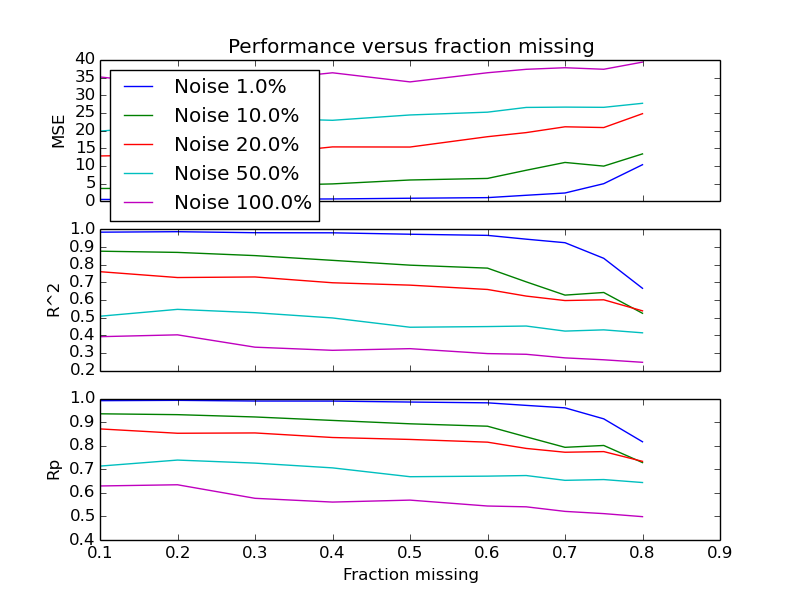
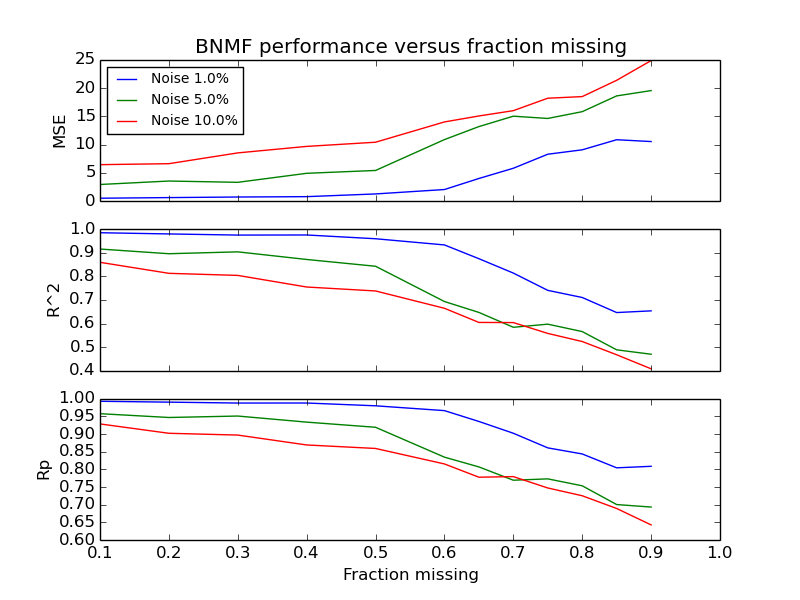
Also ran BNMF Gibbs for graphs.

diff --git a/example/test_varying_noise/bnmf/recover_gibbs_varying_noise.py b/example/test_varying_noise/bnmf/recover_gibbs_varying_noise.py
@@ -43,6 +43,7 @@ lambdaU = numpy.ones((I,K))
 lambdaV = numpy.ones((J,K))  
 priors = { 'alpha':alpha, 'beta':beta, 'lambdaU':lambdaU, 'lambdaV':lambdaV }
 
+'''
 # For each tau, generate a dataset, and mask matrices
 all_R = []
 all_Ms = []
@@ -116,68 +117,57 @@ print "All performances versus noise level and fraction of entries missing: %s."
 
 
 '''
-All performances versus noise level and fraction of entries missing: 
-    [(0.01, 
-          [(0.1, {'R^2': 0.984327379615597, 'MSE': 0.49291516806919577, 'Rp': 0.9921579363835803}), 
-           (0.2, {'R^2': 0.9870850309180961, 'MSE': 0.44439556610330549, 'Rp': 0.99354340355412685}), 
-           (0.3, {'R^2': 0.9812581072453863, 'MSE': 0.53557885768291214, 'Rp': 0.99063272657163615}), 
-           (0.4, {'R^2': 0.9807507902828302, 'MSE': 0.63251815764731167, 'Rp': 0.99039451606225415}), 
-           (0.5, {'R^2': 0.9726986338367348, 'MSE': 0.83166753021130424, 'Rp': 0.98630606561533318}), 
-           (0.6, {'R^2': 0.96622277767559, 'MSE': 1.0057840933812459, 'Rp': 0.98298875849883849}), 
-           (0.65, {'R^2': 0.9447030408369691, 'MSE': 1.6714684032666085, 'Rp': 0.97212124673649503}), 
-           (0.7, {'R^2': 0.9246556824505652, 'MSE': 2.3178317466888712, 'Rp': 0.96168095823041777}), 
-           (0.75, {'R^2': 0.8362217267048724, 'MSE': 4.956909843140286, 'Rp': 0.91487143753244848}), 
-           (0.8, {'R^2': 0.6663077678209981, 'MSE': 10.333983877157896, 'Rp': 0.81745804540144329})]), 
-     (0.1, 
-          [(0.1, {'R^2': 0.8765521195731734, 'MSE': 3.5957109788382615, 'Rp': 0.93636719291577586}), 
-           (0.2, {'R^2': 0.8697672003885271, 'MSE': 3.6912873902093546, 'Rp': 0.93271016667534179}), 
-           (0.3, {'R^2': 0.8515818088520015, 'MSE': 4.3739725603661075, 'Rp': 0.92289109899948152}), 
-           (0.4, {'R^2': 0.8247299627282597, 'MSE': 4.8949585759665526, 'Rp': 0.90820309812197098}), 
-           (0.5, {'R^2': 0.7974135479757228, 'MSE': 6.002248588016287, 'Rp': 0.89383901831327184}), 
-           (0.6, {'R^2': 0.7806310192568402, 'MSE': 6.4464144487347559, 'Rp': 0.88360865011569378}), 
-           (0.65, {'R^2': 0.7027422121417745, 'MSE': 8.7631433474405398, 'Rp': 0.83837203619588718}), 
-           (0.7, {'R^2': 0.6277023690115331, 'MSE': 10.973282498922208, 'Rp': 0.79388502385910298}), 
-           (0.75, {'R^2': 0.6425477034062872, 'MSE': 9.9348965439281702, 'Rp': 0.80177186125298849}), 
-           (0.8, {'R^2': 0.5246944505846692, 'MSE': 13.395646663661475, 'Rp': 0.72901884806959749})]), 
-     (0.2, 
-          [(0.1, {'R^2': 0.7604951052932718, 'MSE': 12.814810990950185, 'Rp': 0.87213662586593366}), 
-           (0.2, {'R^2': 0.7272932989242422, 'MSE': 13.164973582134422, 'Rp': 0.85366128733097424}), 
-           (0.3, {'R^2': 0.7305258924818199, 'MSE': 13.117962552712095, 'Rp': 0.85498679824798907}), 
-           (0.4, {'R^2': 0.6976874780589213, 'MSE': 15.37729133197117, 'Rp': 0.83561833955740383}), 
-           (0.5, {'R^2': 0.6842164205122525, 'MSE': 15.339726410904008, 'Rp': 0.82738404741704019}), 
-           (0.6, {'R^2': 0.6596859460330464, 'MSE': 18.269520469358255, 'Rp': 0.81583059580429829}), 
-           (0.65, {'R^2': 0.6221483565869295, 'MSE': 19.432421157870998, 'Rp': 0.78917034173874612}), 
-           (0.7, {'R^2': 0.5968885961352156, 'MSE': 21.075612977663429, 'Rp': 0.77298223629623974}), 
-           (0.75, {'R^2': 0.6011369706614151, 'MSE': 20.860140256315873, 'Rp': 0.77570369421660146}), 
-           (0.8, {'R^2': 0.5384760323596918, 'MSE': 24.792870144462448, 'Rp': 0.73422423345262522})]), 
-     (0.5, 
-          [(0.1, {'R^2': 0.5080866452807974, 'MSE': 19.854864835355144, 'Rp': 0.71408421636320296}), 
-           (0.2, {'R^2': 0.5469940113575574, 'MSE': 21.570416897359063, 'Rp': 0.73970783440789267}), 
-           (0.3, {'R^2': 0.5280346547679874, 'MSE': 23.508103570280092, 'Rp': 0.72675835551051116}), 
-           (0.4, {'R^2': 0.4982668489455703, 'MSE': 22.915359484489098, 'Rp': 0.70653872312705579}), 
-           (0.5, {'R^2': 0.4456510022242025, 'MSE': 24.426559048006446, 'Rp': 0.66899260762554791}), 
-           (0.6, {'R^2': 0.4494714649967708, 'MSE': 25.21973716162924, 'Rp': 0.67138894486907608}), 
-           (0.65, {'R^2': 0.45243904882791297, 'MSE': 26.56083812327492, 'Rp': 0.67395658733263597}), 
-           (0.7, {'R^2': 0.423811224513171, 'MSE': 26.651836173601627, 'Rp': 0.65356769986976948}), 
-           (0.75, {'R^2': 0.4308135511516591, 'MSE': 26.590121792683547, 'Rp': 0.65687793323933164}), 
-           (0.8, {'R^2': 0.41405488636188603, 'MSE': 27.730466368455247, 'Rp': 0.64424334486074208})]), 
-     (1.0, 
-          [(0.1, {'R^2': 0.39213998134514516, 'MSE': 35.189904426450717, 'Rp': 0.62965470060440776}), 
-           (0.2, {'R^2': 0.40255383127054656, 'MSE': 32.856073599394321, 'Rp': 0.63475216257445477}), 
-           (0.3, {'R^2': 0.3326498487652867, 'MSE': 34.097063788125361, 'Rp': 0.57717080093849571}), 
-           (0.4, {'R^2': 0.3148844307551283, 'MSE': 36.377367119950065, 'Rp': 0.56116503537502838}), 
-           (0.5, {'R^2': 0.32426420141027057, 'MSE': 33.796819097670074, 'Rp': 0.56952099680697854}), 
-           (0.6, {'R^2': 0.29632056298946297, 'MSE': 36.388812071192959, 'Rp': 0.54442281767556966}), 
-           (0.65, {'R^2': 0.2923214991044293, 'MSE': 37.363776253296038, 'Rp': 0.54100644901875194}), 
-           (0.7, {'R^2': 0.27204738354340796, 'MSE': 37.810432045864637, 'Rp': 0.52160548989200872}), 
-           (0.75, {'R^2': 0.26117287440602965, 'MSE': 37.375712885151991, 'Rp': 0.51210475445738457}), 
-           (0.8, {'R^2': 0.24695090768722028, 'MSE': 39.401986915829767, 'Rp': 0.49919191756447562})])]
-'''
+# All performances versus noise level and fraction of entries missing: 
+# (Noise -> Fraction -> Performances)
+stored_all_performances = [
+ (0.01, 
+      [(0.1, {'R^2': 0.985903298266529, 'MSE': 0.52335367774259334, 'Rp': 0.99304725608282396}), 
+       (0.2, {'R^2': 0.980763727512887, 'MSE': 0.63445170601562029, 'Rp': 0.99056887342912914}), 
+       (0.3, {'R^2': 0.9759260743403043, 'MSE': 0.73671405908868126, 'Rp': 0.98805429862029526}), 
+       (0.4, {'R^2': 0.9763462565212224, 'MSE': 0.80088628773256965, 'Rp': 0.98812060920882061}), 
+       (0.5, {'R^2': 0.9603099919325674, 'MSE': 1.2819942329124554, 'Rp': 0.98022237320919381}), 
+       (0.6, {'R^2': 0.9340554816558071, 'MSE': 2.0620582918129817, 'Rp': 0.96656625508931204}), 
+       (0.65, {'R^2': 0.8755523825326187, 'MSE': 4.0171576509734921, 'Rp': 0.93586467689519626}), 
+       (0.7, {'R^2': 0.8144001289912502, 'MSE': 5.828664073581824, 'Rp': 0.9024481465715557}), 
+       (0.75, {'R^2': 0.7409626017625912, 'MSE': 8.3144960084449799, 'Rp': 0.86103399330218722}), 
+       (0.8, {'R^2': 0.7106426687917611, 'MSE': 9.0946188859656658, 'Rp': 0.84380445214454181}), 
+       (0.85, {'R^2': 0.6466346415062064, 'MSE': 10.881648565859551, 'Rp': 0.80448092691982864}), 
+       (0.9, {'R^2': 0.6538566363240571, 'MSE': 10.557955551929794, 'Rp': 0.80880196390796799})]), 
+ (0.05, 
+      [(0.1, {'R^2': 0.916621165871173, 'MSE': 2.9550337817316796, 'Rp': 0.95789589311072909}), 
+       (0.2, {'R^2': 0.8966527629847163, 'MSE': 3.5664041832415112, 'Rp': 0.94712047238042429}), 
+       (0.3, {'R^2': 0.9046154167407594, 'MSE': 3.3387439785567383, 'Rp': 0.95119861599753308}), 
+       (0.4, {'R^2': 0.8722524697611271, 'MSE': 4.9357471890632221, 'Rp': 0.9339859512310078}), 
+       (0.5, {'R^2': 0.8433948514954184, 'MSE': 5.4400497149760749, 'Rp': 0.91936099053545095}), 
+       (0.6, {'R^2': 0.6934919870386858, 'MSE': 10.905196718381163, 'Rp': 0.83472342796108512}), 
+       (0.65, {'R^2': 0.6472297245950314, 'MSE': 13.207421358934283, 'Rp': 0.80708054423391007}), 
+       (0.7, {'R^2': 0.584048422669815, 'MSE': 15.049169083930016, 'Rp': 0.76938127594166439}), 
+       (0.75, {'R^2': 0.5972948290020943, 'MSE': 14.648764894400312, 'Rp': 0.77322587194743153}), 
+       (0.8, {'R^2': 0.5658318897502532, 'MSE': 15.850466728842202, 'Rp': 0.75356678912700337}), 
+       (0.85, {'R^2': 0.4882068126257707, 'MSE': 18.642508641349227, 'Rp': 0.70042192519595747}), 
+       (0.9, {'R^2': 0.46949507520735523, 'MSE': 19.583131668592856, 'Rp': 0.69333647403101362})]), 
+ (0.1, 
+      [(0.1, {'R^2': 0.8601242332662667, 'MSE': 6.4658145640451128, 'Rp': 0.9288604272037766}), 
+       (0.2, {'R^2': 0.8133538845149939, 'MSE': 6.6391681783379797, 'Rp': 0.90236574853170115}), 
+       (0.3, {'R^2': 0.8045190035698141, 'MSE': 8.5494206671367579, 'Rp': 0.89728999333357429}), 
+       (0.4, {'R^2': 0.7551859408255522, 'MSE': 9.7007259688849388, 'Rp': 0.86926570450091789}), 
+       (0.5, {'R^2': 0.7384113732970214, 'MSE': 10.439380448627963, 'Rp': 0.85936607601644666}), 
+       (0.6, {'R^2': 0.6648032963440703, 'MSE': 14.032485943920898, 'Rp': 0.81548086857225754}), 
+       (0.65, {'R^2': 0.6046844363759465, 'MSE': 15.087888841322266, 'Rp': 0.77790035011493841}), 
+       (0.7, {'R^2': 0.6040490901396769, 'MSE': 16.029471854061896, 'Rp': 0.77963590248705217}), 
+       (0.75, {'R^2': 0.5579885175970947, 'MSE': 18.232462137632488, 'Rp': 0.74739054756936685}), 
+       (0.8, {'R^2': 0.5234983900741956, 'MSE': 18.520051005615986, 'Rp': 0.72536539246863374}), 
+       (0.85, {'R^2': 0.4672555363111337, 'MSE': 21.404126437164386, 'Rp': 0.68926418420747826}), 
+       (0.9, {'R^2': 0.4075669800307794, 'MSE': 24.896757849814581, 'Rp': 0.64275033317289132})])
+]
+all_performances_per_noise = [[performance for fraction,performance in all_performances] for noise,all_performances in stored_all_performances]
+''''''
 
 
 # Plot the MSE and R^2 for each noise level, as the fraction of missing values varies.
 # So we get n lines in each plot for n noise levels.
-f, axarr = plt.subplots(3, sharex=True)
+#f, axarr = plt.subplots(3, sharex=True)
+f, axarr = plt.subplots(2, sharex=True, figsize=(7.5,5))
 x = fractions_unknown
 
 # Set axis font to small
@@ -187,12 +177,18 @@ fontP.set_size('small')
 axarr[0].set_title('BNMF performance versus fraction missing')
 for noise,all_performances in zip(noise_ratios,all_performances_per_noise):
     axarr[0].plot(x, [perf['MSE'] for perf in all_performances],label="Noise %s%%" % (100.*noise))
-    axarr[0].legend(loc="upper left", prop = fontP)
+axarr[0].legend(loc="upper left", prop = fontP)
 axarr[0].set_ylabel("MSE")
+
 for noise,all_performances in zip(noise_ratios,all_performances_per_noise):
     axarr[1].plot(x, [perf['R^2'] for perf in all_performances],label="Noise %s%%" % (100.*noise))   
 axarr[1].set_ylabel("R^2")
-for noise,all_performances in zip(noise_ratios,all_performances_per_noise):
-    axarr[2].plot(x, [perf['Rp'] for perf in all_performances],label="Noise %s%%" % (100.*noise)) 
-axarr[2].set_ylabel("Rp")
-axarr[2].set_xlabel("Fraction missing")
+axarr[1].set_ylim(0.4,1)
+
+#for noise,all_performances in zip(noise_ratios,all_performances_per_noise):
+#    axarr[2].plot(x, [perf['Rp'] for perf in all_performances],label="Noise %s%%" % (100.*noise)) 
+#axarr[2].set_ylabel("Rp")
+
+#axarr[2].set_xlabel("Fraction missing")
+axarr[1].set_xlabel("Fraction missing")
+plt.xlim(x[0],x[-1])

diff --git a/example/test_varying_noise/bnmtf/recover_gibbs_varying_noise.py b/example/test_varying_noise/bnmtf/recover_gibbs_varying_noise.py
@@ -43,7 +43,8 @@ lambdaF = numpy.ones((I,K))
 lambdaS = numpy.ones((K,L))  
 lambdaG = numpy.ones((J,L))  
 priors = { 'alpha':alpha, 'beta':beta, 'lambdaF':lambdaF, 'lambdaS':lambdaS, 'lambdaG':lambdaG }
-
+  
+'''
 # For each tau, generate a dataset, and mask matrices
 all_R = []
 all_Ms = []
@@ -77,8 +78,7 @@ for noise in noise_ratios:
         check_empty_rows_columns(M,fraction)
         
 print "Generated datasets and mask matrices."
-       
-       
+     
 # For each level of noise, and for each fraction of missing data, run the VB algorithm.
 # Then plot this, and convergence of tau as well.
 all_performances_per_noise = []
@@ -117,9 +117,10 @@ print "All performances versus noise level and fraction of entries missing: %s."
 
 
 '''
-All performances versus noise level and fraction of entries missing: 
-(Noise -> Fraction -> Performances)
-[(0.01, 
+# All performances versus noise level and fraction of entries missing: 
+# (Noise -> Fraction -> Performances)
+stored_all_performances = [
+ (0.01, 
       [(0.1, {'R^2': 0.9827806402055835, 'MSE': 19.000913967003534, 'Rp': 0.99135308174986569}), 
        (0.2, {'R^2': 0.9865015312881293, 'MSE': 20.788764048766264, 'Rp': 0.99336726740295134}), 
        (0.3, {'R^2': 0.9863355718902775, 'MSE': 21.898187013256795, 'Rp': 0.99322770486605105}), 
@@ -157,13 +158,15 @@ All performances versus noise level and fraction of entries missing:
        (0.75, {'R^2': 0.8317152863079489, 'MSE': 59.309184298399096, 'Rp': 0.91464996028396983}), 
        (0.8, {'R^2': 0.8348612978982133, 'MSE': 60.229660889051601, 'Rp': 0.91404450206165555}), 
        (0.85, {'R^2': 0.8052573923279411, 'MSE': 69.113408274560896, 'Rp': 0.89901532296961462}), 
-       (0.9, {'R^2': 0.7621337376835944, 'MSE': 87.47487375643496, 'Rp': 0.87333697688306988})])]
-'''
-
+       (0.9, {'R^2': 0.7621337376835944, 'MSE': 87.47487375643496, 'Rp': 0.87333697688306988})])
+]
+all_performances_per_noise = [[performance for fraction,performance in all_performances] for noise,all_performances in stored_all_performances]
+''''''
 
 # Plot the MSE and R^2 for each noise level, as the fraction of missing values varies.
 # So we get n lines in each plot for n noise levels.
-f, axarr = plt.subplots(3, sharex=True)
+#f, axarr = plt.subplots(3, sharex=True)
+f, axarr = plt.subplots(2, sharex=True, figsize=(7.5,5))
 x = fractions_unknown
 
 # Set axis font to small
@@ -173,12 +176,18 @@ fontP.set_size('small')
 axarr[0].set_title('BNMTF performance versus fraction missing')
 for noise,all_performances in zip(noise_ratios,all_performances_per_noise):
     axarr[0].plot(x, [perf['MSE'] for perf in all_performances],label="Noise %s%%" % (100.*noise))
-    axarr[0].legend(loc="upper left", prop = fontP)
+axarr[0].legend(loc="upper left", prop = fontP)
 axarr[0].set_ylabel("MSE")
+
 for noise,all_performances in zip(noise_ratios,all_performances_per_noise):
-    axarr[1].plot(x, [perf['R^2'] for perf in all_performances],label="Noise %s%%" % (100.*noise))   
-axarr[1].set_ylabel("R^2")
-for noise,all_performances in zip(noise_ratios,all_performances_per_noise):
-    axarr[2].plot(x, [perf['Rp'] for perf in all_performances],label="Noise %s%%" % (100.*noise)) 
-axarr[2].set_ylabel("Rp")
-axarr[2].set_xlabel("Fraction missing")
+    axarr[1].plot(x, [perf['R^2'] for perf in all_performances],label="Noise %s%%" % (100.*noise)) 
+axarr[1].set_ylabel("R2")
+axarr[1].set_ylim(0.4,1)
+
+#for noise,all_performances in zip(noise_ratios,all_performances_per_noise):
+#    axarr[2].plot(x, [perf['Rp'] for perf in all_performances],label="Noise %s%%" % (100.*noise)) 
+#axarr[2].set_ylabel("Rp")
+#
+#axarr[2].set_xlabel("Fraction missing")
+axarr[1].set_xlabel("Fraction missing")
+plt.xlim(x[0],x[-1])
